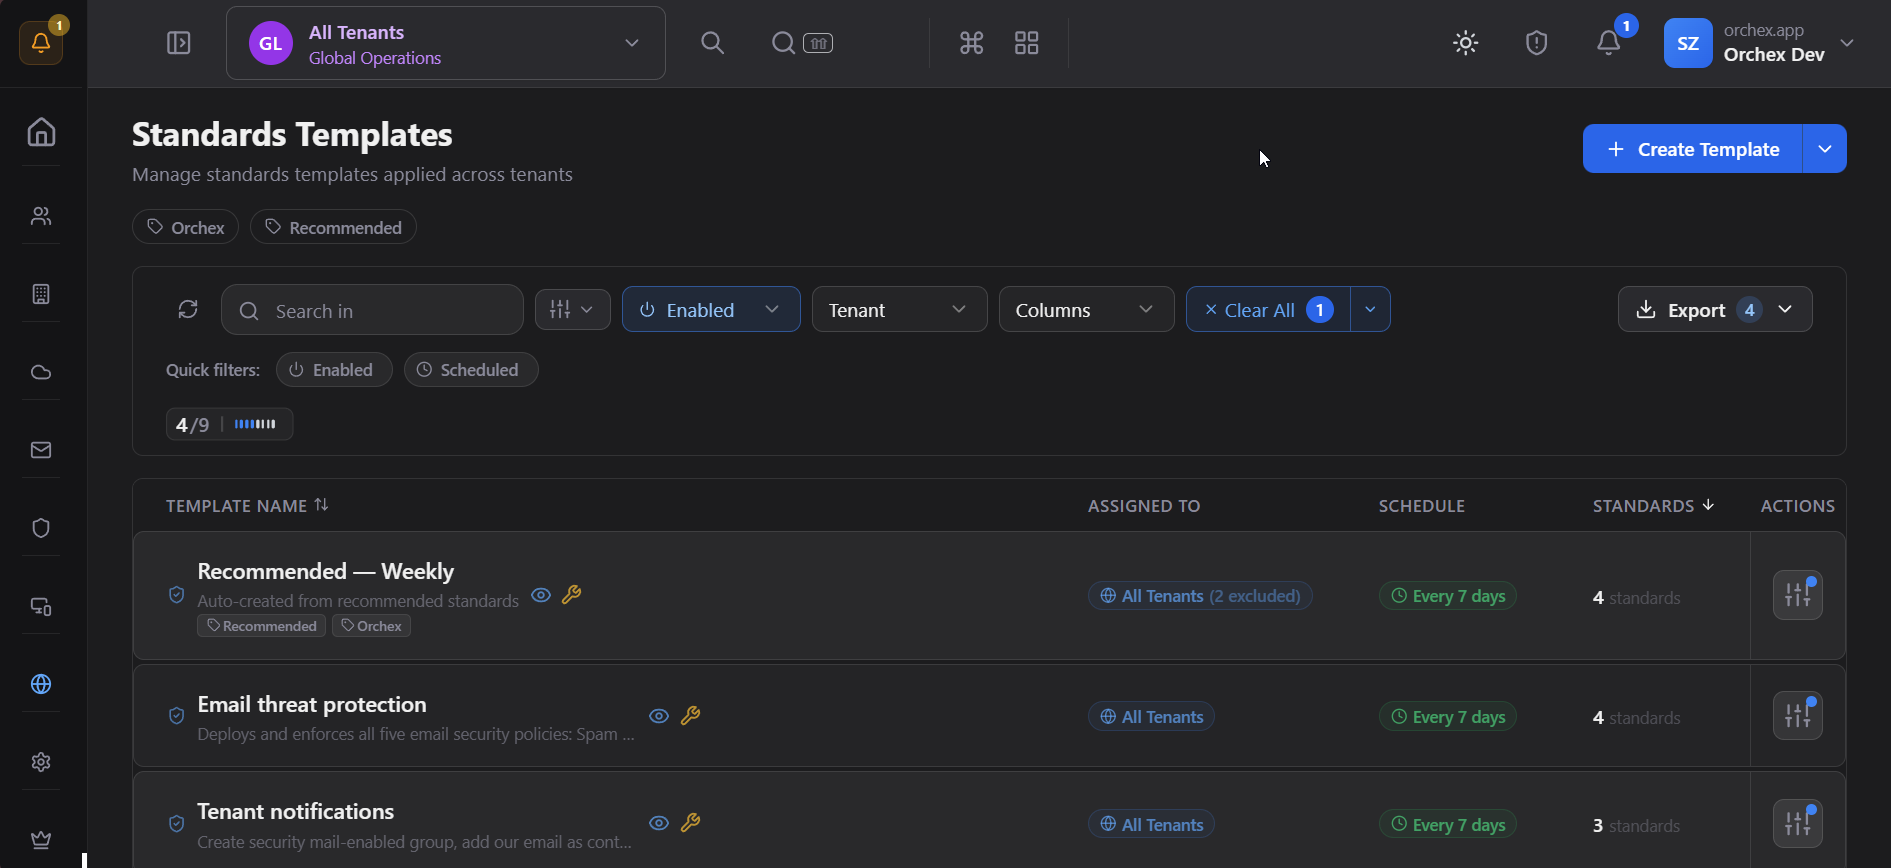
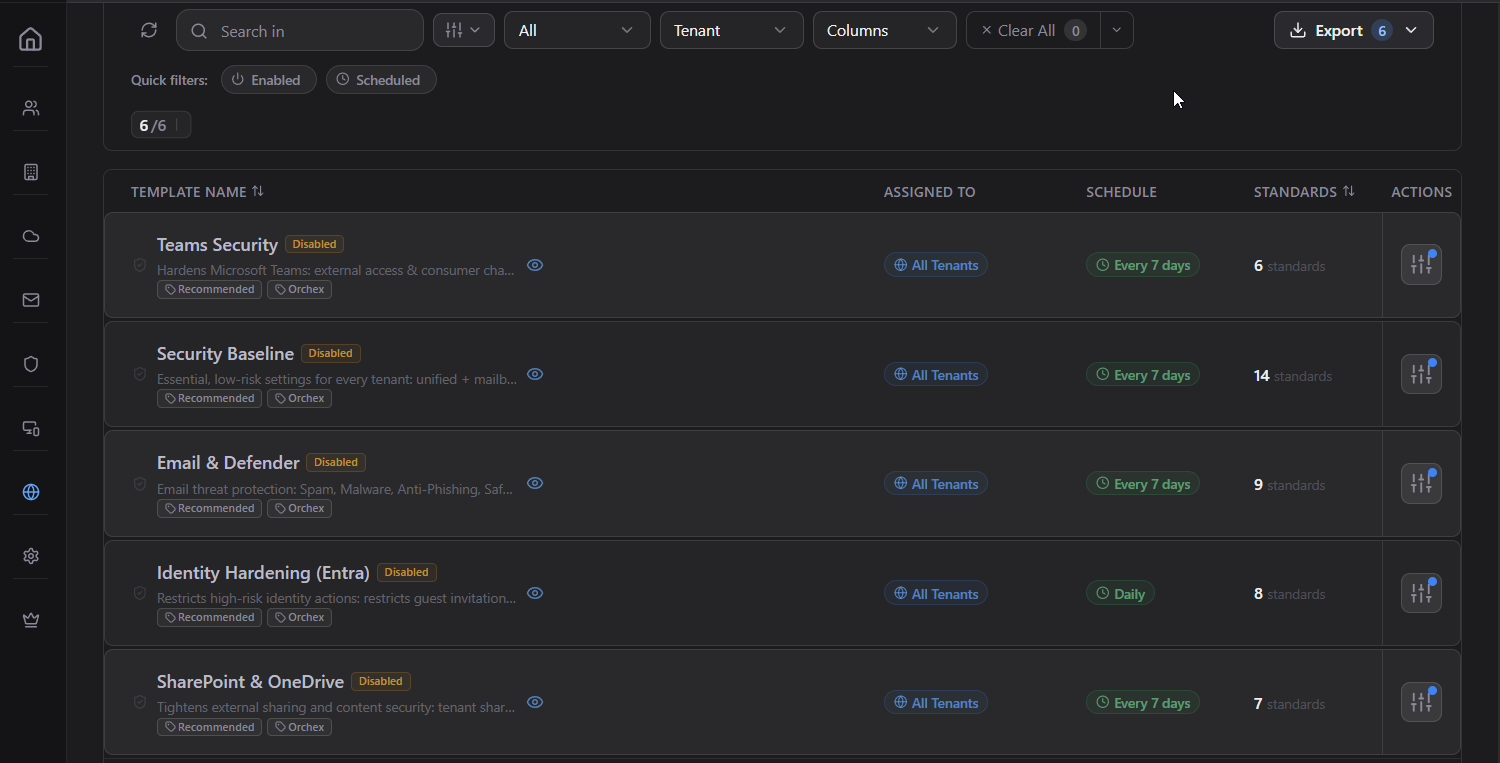
Website: update recommended-templates copy (workload packs, not by-schedule)
The recommended templates now group standards into workload packs (Security
Baseline, Email & Defender, Identity, SharePoint, Teams) each on its own schedule,
not grouped by schedule. Also commits the refreshed Standards.png screenshot.

diff --git a/src/App.vue b/src/App.vue
@@ -135,7 +135,7 @@
             <li>Scheduled enforcement or manual-only execution per template</li>
             <li>Tag and organise templates — Core, Onboarding, and custom tags</li>
             <li>Multiple standards per template, any combination of categories</li>
-            <li>One-click recommended templates — ORCHEX groups best-practice standards by schedule and creates them automatically</li>
+            <li>One-click recommended templates — ORCHEX creates a curated set of best-practice workload packs (Security Baseline, Email &amp; Defender, Identity, SharePoint, Teams), report-only on sensible schedules and ready to review</li>
             <li>Exchange Online retention policies and archive tags — provisioned and kept in sync across all tenants</li>
           </ul>
         </div>
